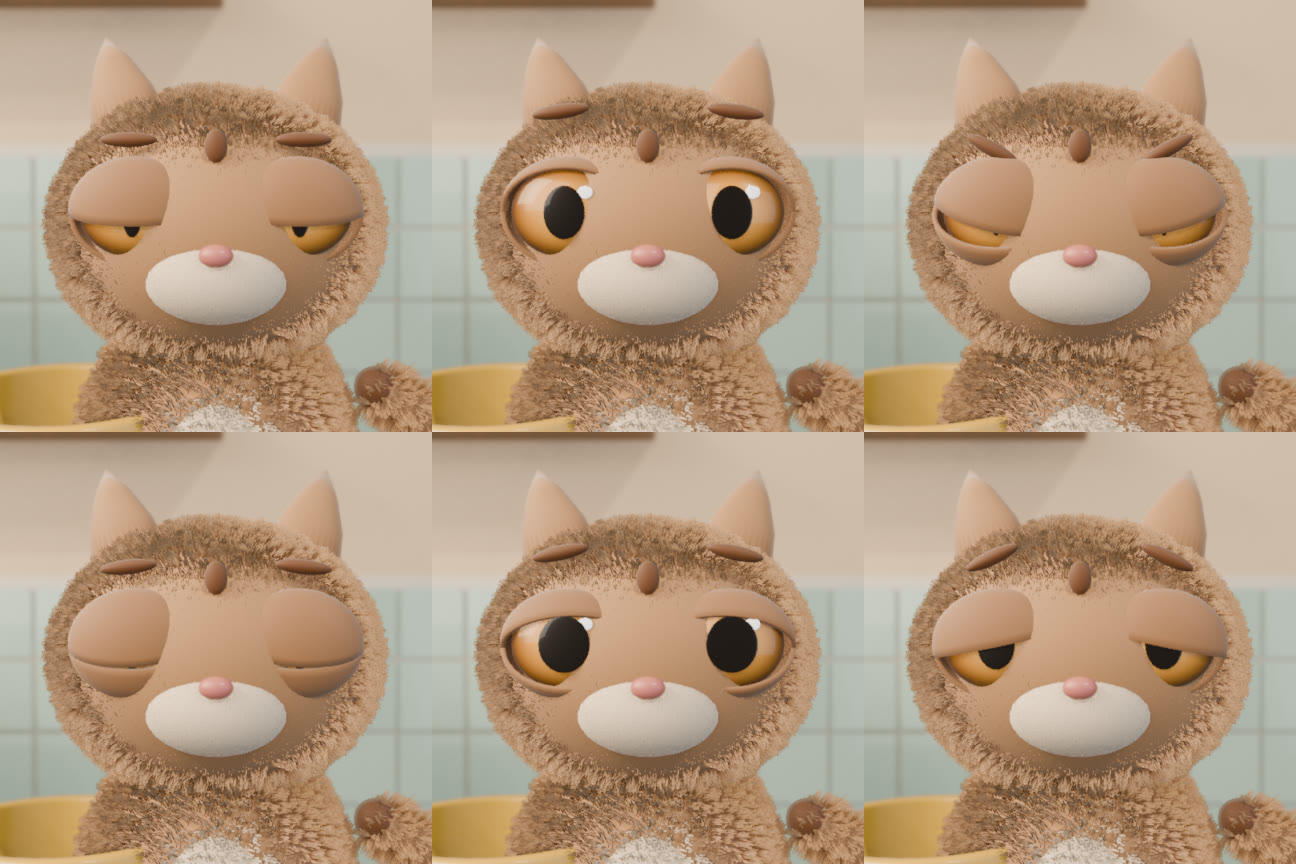
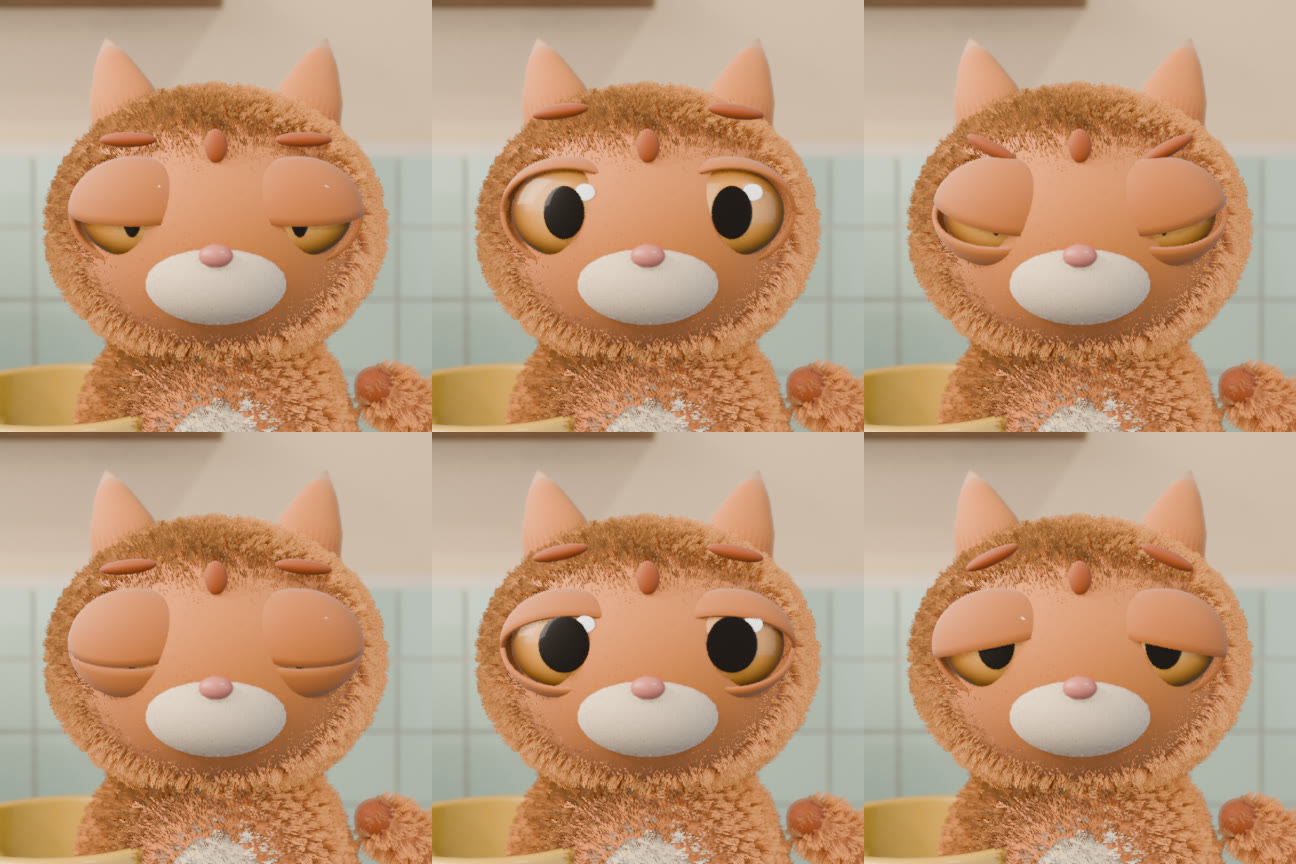
Mocha plus orange, mousse bien blanche (style studio)
Claude-Session: https://claude.ai/code/session_01AYVLiiCrswVoknbcna6QtA

diff --git a/tools/blender/style-studio.py b/tools/blender/style-studio.py
@@ -327,10 +327,10 @@ def habiller_mocha():
     mocha = O["Mocha"]
     k = ECHELLE_YEUX_MOCHA
     sans_contour(("Mocha",))
-    pelage = regler("Mocha_Pelage", "#B98A5C", 0.6, sheen=0.5)
-    fonce = regler("Mocha_Fonce", "#6E4428", 0.6, sheen=0.4)
+    pelage = regler("Mocha_Pelage", "#DC8236", 0.6, sheen=0.5)
+    fonce = regler("Mocha_Fonce", "#A84E1A", 0.6, sheen=0.4)
     creme = regler("Mocha_Creme", "#F1DEC4", 0.6, sheen=0.5, sss=0.05)
-    regler("Mocha_Paupiere", "#A0724B", 0.6, sheen=0.5)  # même peau que le visage
+    regler("Mocha_Paupiere", "#C8722E", 0.6, sheen=0.5)  # même peau que le visage
     regler("Mocha_Pupille", "#120C09", 0.25, vernis=1.0, vernis_rug=0.03)
     rose = regler("Mocha_Nez", "#D9827C", 0.35, vernis=0.4)
     oreille_int = regler("Mocha_Oreille_Interieur", "#E9A79B", 0.6, sss=0.2)
@@ -407,7 +407,7 @@ def habiller_mocha():
         q.hide_render = q.hide_viewport = True
         q.name = "Mocha_Queue_Courbe"
         nq.name = "Mocha_Queue"
-        fourrure(nq, mat_poils("Mocha_Poils_Queue", "#7E5434", "#C99B6A"), 0.014, 900, enfants=10)
+        fourrure(nq, mat_poils("Mocha_Poils_Queue", "#A9501C", "#F09A48"), 0.014, 900, enfants=10)
 
     # Pelage : visage dégagé (comme une peau douce), poils longs sur le crâne, les joues et le corps
     def masque_tete(co):
@@ -419,10 +419,10 @@ def habiller_mocha():
         n = co.normalized()
         return 1.0 - 0.7 * _lisser_doux((-n.y - 0.55) / 0.3)
 
-    fourrure(tete, mat_poils("Mocha_Poils", "#8A5E3B", "#D9AE80"), 0.012, 3200, enfants=20, masque=masque_tete)
-    fourrure(corps, mat_poils("Mocha_Poils_Corps", "#8A5E3B", "#D2A576"), 0.014, 3200, enfants=18,
+    fourrure(tete, mat_poils("Mocha_Poils", "#B45A20", "#F6A858"), 0.012, 3200, enfants=20, masque=masque_tete)
+    fourrure(corps, mat_poils("Mocha_Poils_Corps", "#B05820", "#F2A050"), 0.014, 3200, enfants=18,
              masque=masque_corps)
-    fourrure(ventre, mat_poils("Mocha_Poils_Creme", "#CDB08C", "#F6E8D2"), 0.008, 1200, enfants=12)
+    fourrure(ventre, mat_poils("Mocha_Poils_Creme", "#E6C8A0", "#FFF4E4"), 0.008, 1200, enfants=12)
     return mocha
 
 
@@ -639,7 +639,7 @@ def finitions_accessoires():
             o.modifiers.remove(m)
     M = bpy.data.materials
     reglages = {
-        "Mousse": dict(rugosite=0.55, sheen=0.6, sss=0.35),
+        "Mousse": dict(couleur="#FFFFFF", rugosite=0.6, sheen=0.3, sss=0.1),
         "Cafe": dict(rugosite=0.08, vernis=1.0, vernis_rug=0.02),
         "Vapeur": dict(rugosite=0.9, sss=0.4),
         "Boitier": dict(rugosite=0.4, vernis=0.5),

diff --git a/docs/08-fiches-personnages.md b/docs/08-fiches-personnages.md
@@ -32,7 +32,7 @@ un petit corps, oreilles rondes bleu nuit à point orange, antenne à boule oran
 sur la poitrine, bras articulés (épaule et main bleu nuit, bracelet orange), petite roue.
 L'écran garde les 18 expressions (avec un reflet de vitre).
 
-**Mocha v2** — vrai pelage café au lait (poils plus foncés à la racine), ventre crème, visage
+**Mocha v2** — vrai pelage orange (poils plus foncés à la racine, pointes dorées), ventre crème, visage
 dégagé, grands yeux ambrés vernis (×1,55), paupières en « coques » qui épousent l'œil, nez rose,
 oreilles douces à intérieur rose, queue touffue.
 
